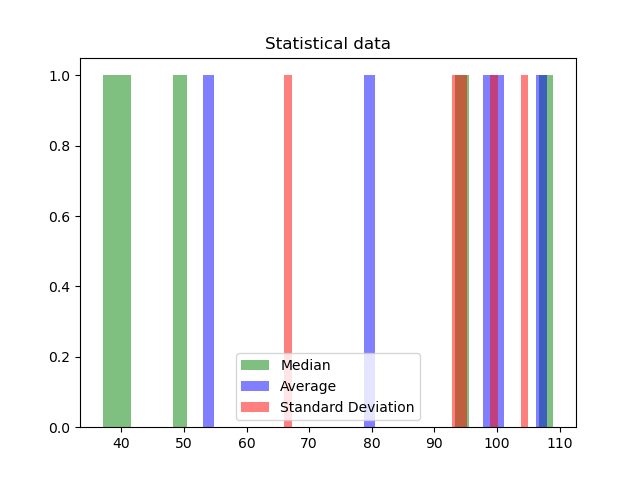
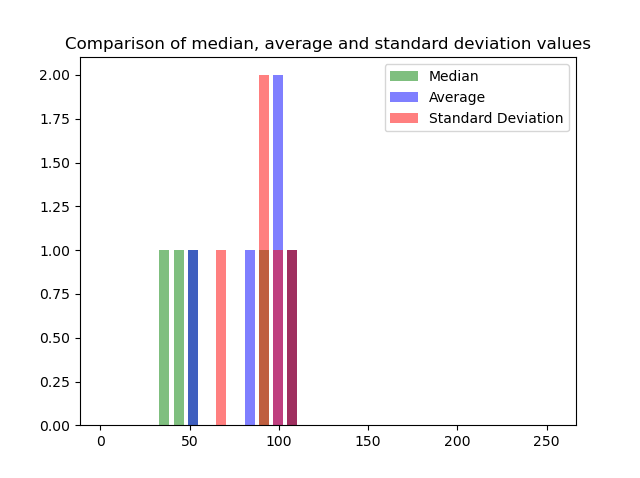
new concept

diff --git a/code/ImageStatisticalAnalysisUtils.py b/code/ImageStatisticalAnalysisUtils.py
@@ -18,6 +18,7 @@ class GalleryAnalyzer:
     "Computes statistical analysis for a given set of images, and creates histograms for working with Matlib.pyplot module"
     imageStats = []
     freqs = np.zeros([256])
+    histogram_data = []
 
     def __init__(self, file_dir: "str"):
         files = get_file_paths(file_dir)
@@ -31,20 +32,17 @@ class GalleryAnalyzer:
         """returns list of Stats instances, Stats store statistical information od images in dataset"""
         return self.imageStats
 
-    def createMiHistogram(self, bins=256):
+    def getMiData(self):
         """creates histogram using the average values of the images"""
-        mi_s = np.array(list(map(lambda x:x.getMi(), self.imageStats)))
-        _ = plt.hist(mi_s, bins=bins, color = 'blue', alpha = 0.5, rwidth = 0.7, range = (0, 255))
+        return np.array(list(map(lambda x:x.getMi(), self.imageStats)))
 
-    def createSdHistogram(self, bins=256):
+    def getSdData(self):
         """creates a histogram using the standard deviations of the images"""
-        sd_s = np.array(list(map(lambda x:x.getSd(), self.imageStats)))
-        _ = plt.hist(sd_s, bins=bins, color = 'red', alpha = 0.5, rwidth = 0.7, range = (0, 255))
+        return np.array(list(map(lambda x:x.getSd(), self.imageStats)))
 
-    def createMedHistogram(self, bins=256):
+    def getMedData(self):
         """"creates a histogram using the median values of the images"""
-        med_s = np.array(list(map(lambda x:x.getMed(), self.imageStats)))
-        _ = plt.hist(med_s, bins=bins, color='green', alpha = 0.5, rwidth = 0.7, range = (0, 255))
+        return np.array(list(map(lambda x:x.getMed(), self.imageStats)))
 
     def filterData(self, modifier):
         """Modifies dataset using given filter function"""
@@ -67,7 +65,7 @@ class GalleryAnalyzer:
         """Returns standard deviation of dataset that includes all pixels from all images in a directory"""
         return np.sqrt(self.getVar())
 
-    def createCommonHistogram(self, cutEdges = 0):
+    def createHistogram(self, cutEdges = 0):
         """Creates histogram using dataset of pixels from all images in a directory"""
         freq = self.freqs
         for i in range(cutEdges):
@@ -75,7 +73,7 @@ class GalleryAnalyzer:
         bins = np.arange(257)
         intensities = np.arange(256)
         positions = range(len(intensities))
-        plt.hist(intensities, bins=bins, weights=self.freqs)
+        plt.hist(intensities, bins=bins, weights=self.freqs, density=True)
 
 
 class Stats:

diff --git a/code/Main.py b/code/Main.py
@@ -1,10 +1,11 @@
 import sys
+import numpy as np
 import ImageStatisticalAnalysisUtils as isa
 import matplotlib.pyplot as plt
 
 def main():
 
-    #dir_path = "/home/antonio123/workspace/Github_projects/StatisticalImageAnalysis/test_data/*.gif"
+    dir_path = "/home/antonio123/workspace/Github_projects/StatisticalImageAnalysis/test_data/*.gif"
 
     if sys.argv[0]:
         dir_path = sys.argv[1]
@@ -14,19 +15,30 @@ def main():
 
     MyGa = isa.GalleryAnalyzer(dir_path)
     fig1 = plt.figure()
-    MyGa.createCommonHistogram()
-    plt.title("Pixel distribution")
+    MyGa.createHistogram()
+    #MyGa.createHistogram(cutEdges=2)
+    plt.title("Normalized Pixel distribution")
+    plt.ylabel("Frequency")
+    plt.xlabel("Intensities")
+
     fig2 = plt.figure()
-    MyGa.createMedHistogram(bins = 32)
-    MyGa.createMiHistogram(bins = 32)
-    MyGa.createSdHistogram(bins = 32)
-    _ = plt.legend(['Median', 'Average', 'Standard Deviation'])
+    bins = 17
+    mi_data = MyGa.getMiData()
+    sd_data = MyGa.getSdData()
+    med_data = MyGa.getMedData()
+    MSM_data = x = np.dstack((mi_data, sd_data, med_data))[0]
+    #_ = plt.hist(MSM_data, bins=bins, rwidth=0.7, range=(0, 255), histtype='barstacked')
+    _ = plt.hist(MSM_data, bins, histtype='bar', stacked=True, range=(0, 255), rwidth=0.7)
+    _ = plt.legend(['Average', 'Standard deviation', 'Median'])
     plt.title("Comparison of median, average and standard deviation values")
-    plt.show()
+    plt.ylabel("Frequency")
+    plt.xlabel("Intensity bins")
+    plt.xticks(np.linspace(0, 255, bins+1))
 
     if len(sys.argv) > 2:
         fig1.savefig(sys.argv[2] % "pixel_histogram")
-        fig2.savefig(sys.argv[2] % "med_mi_sd_histogram")
+        fig2.savefig(sys.argv[2] % "med_mi_sd_histogram1")
+        fig3.savefig(sys.argv[2] % "med_mi_sd_histogram2")
     else:
         plt.show()
 

diff --git a/code/test.py b/code/test.py
@@ -1,0 +1,28 @@
+import numpy as np
+import matplotlib.pyplot as plt
+import ImageStatisticalAnalysisUtils as isa
+
+np.random.seed(19680801)
+
+n_bins = 10
+MyGa = isa.GalleryAnalyzer("/home/antonio123/workspace/Github_projects/StatisticalImageAnalysis/test_data/*.gif")
+
+#MyGa.createHistogram()
+bins = 17
+mi_data = MyGa.getMiData()
+sd_data = MyGa.getSdData()
+med_data = MyGa.getMedData()
+x = np.dstack((mi_data, sd_data, med_data))[0]
+print(x)
+
+fig, ((ax0, ax1), (ax2, ax3)) = plt.subplots(nrows=2, ncols=2)
+print(len(x[0]))
+colors = ['red', 'tan', 'lime']
+
+ax1.hist(x[0], n_bins, density=True, histtype='bar', stacked=True)
+ax1.set_title('stacked bar')
+
+
+
+fig.tight_layout()
+plt.show()
